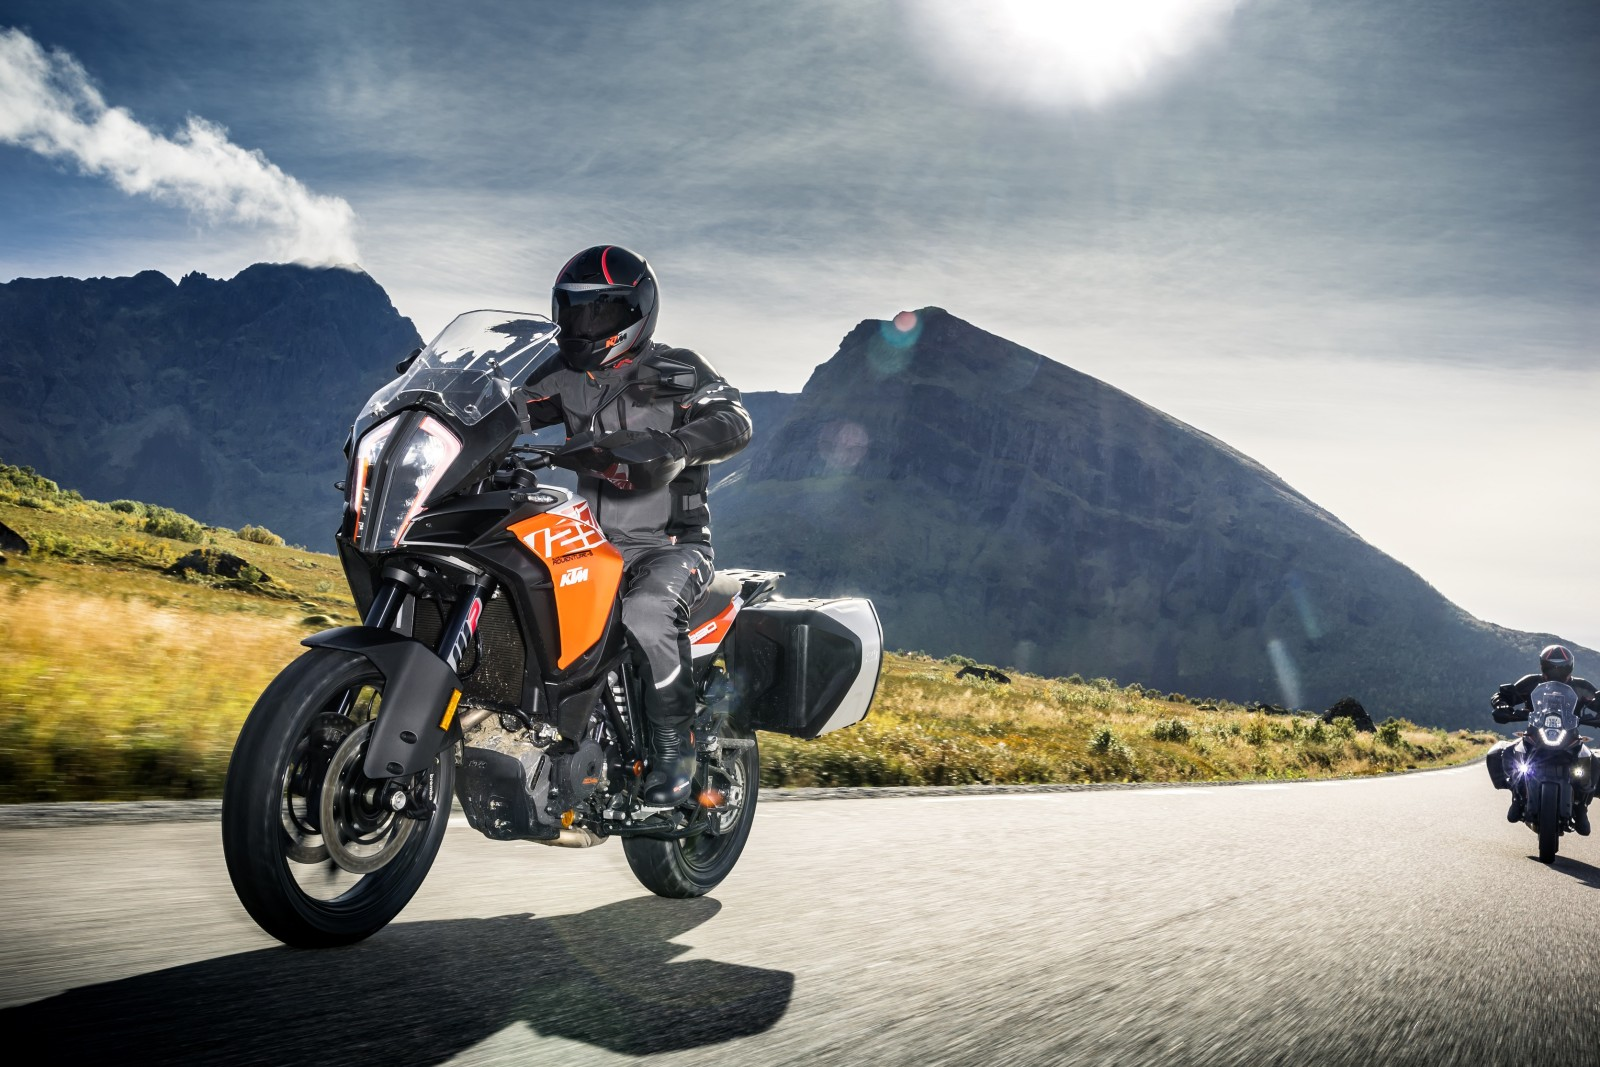
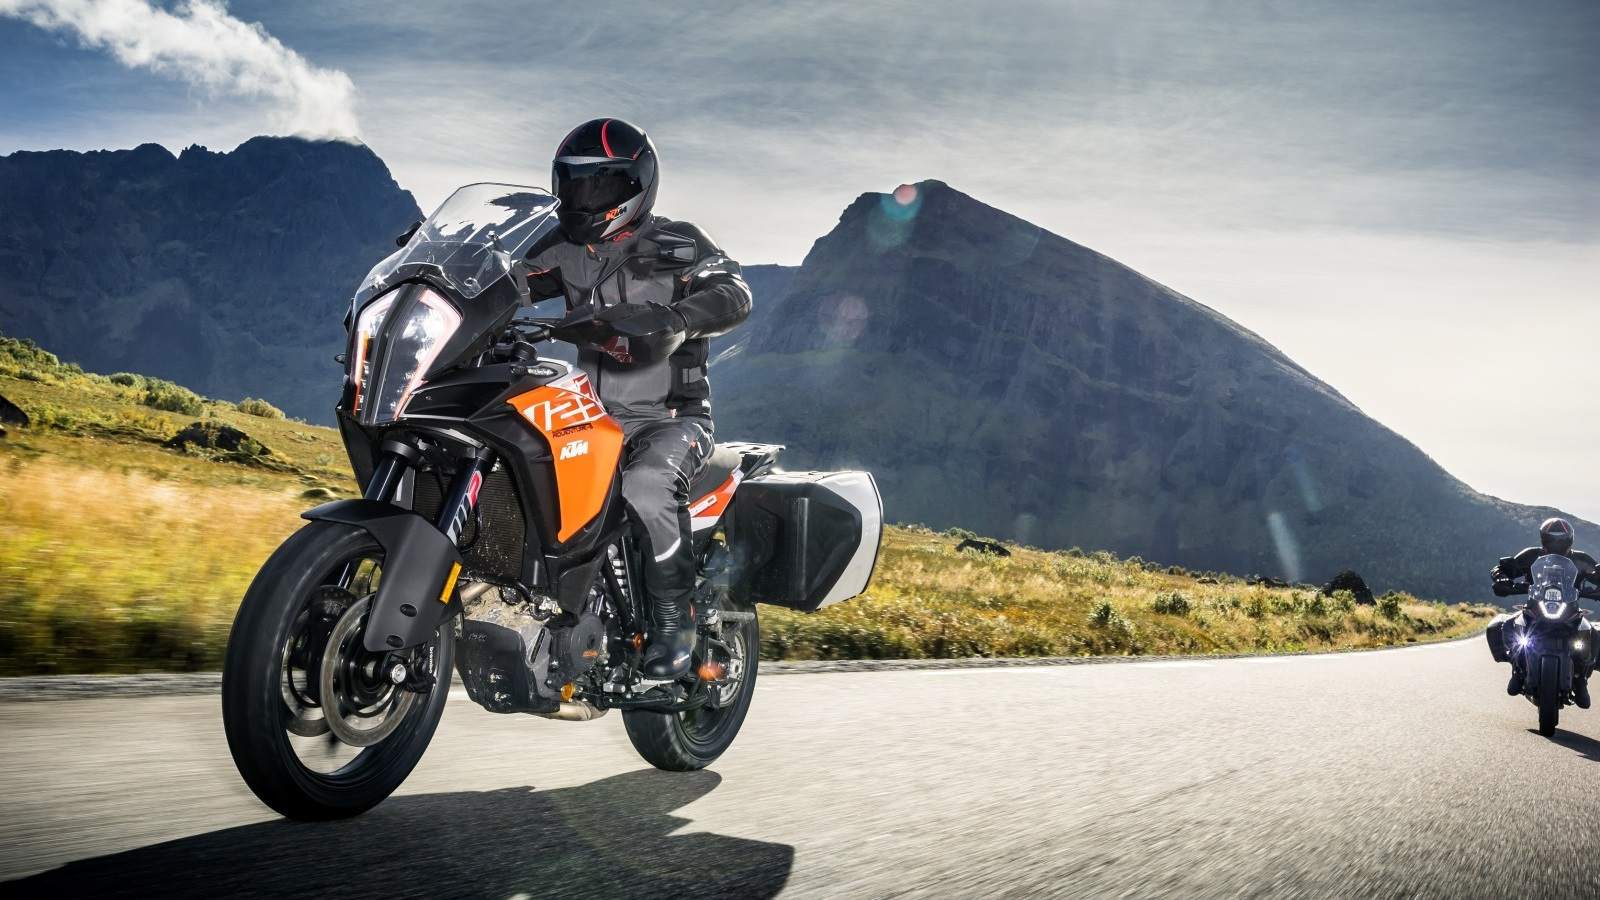
commit

diff --git a/1290adventure.html b/1290adventure.html
@@ -7,14 +7,50 @@
 <link rel="stylesheet" href="https://fonts.googleapis.com/css?family=Roboto">
 <link rel="stylesheet" href="https://fonts.googleapis.com/css?family=Montserrat">
 <link rel="stylesheet" href="https://cdnjs.cloudflare.com/ajax/libs/font-awesome/4.7.0/css/font-awesome.min.css">
+
+<link rel="stylesheet" href="https://maxcdn.bootstrapcdn.com/bootstrap/4.5.0/css/bootstrap.min.css">
+<script src="https://ajax.googleapis.com/ajax/libs/jquery/3.5.1/jquery.min.js"></script>
+<script src="https://cdnjs.cloudflare.com/ajax/libs/popper.js/1.16.0/umd/popper.min.js"></script>
+<script src="https://maxcdn.bootstrapcdn.com/bootstrap/4.5.0/js/bootstrap.min.js"></script>
+
+
 <style>
 .w3-sidebar a {font-family: "Roboto", sans-serif}
 body,h1,h2,h3,h4,h5,h6,.w3-wide {font-family: "Montserrat", sans-serif;}
+
+.carousel-inner img {
+    width: 100%;
+    height: 100%;
+  }
+table {
+  border-collapse: collapse;
+  border-spacing: 0;
+  width: 100%;
+  border: 1px solid #ddd;
+}
+
+th, td {
+  text-align: Left;
+  padding: 16px;
+}
+
+tr:nth-child(even) {
+  background-color: #f2f2f2;
+}
+.fa-check {
+  color: green;
+}
+
+.fa-remove {
+  color: red;
+}
 </style>
+<br>
 <body class="w3-content" style="max-width:1200px">
 
-<!-- Sidebar/menu -->
+			<!-- Sidebar/menu -->
 <nav class="w3-sidebar w3-bar-block w3-white w3-collapse w3-top" style="z-index:3;width:250px" id="mySidebar">
+
   <div class="w3-container w3-display-container w3-padding-16">
     <i onclick="w3_close()" class="fa fa-remove w3-hide-large w3-button w3-display-topright"></i>
     <h3 class="w3-wide"><b>Ride Zone</b></h3>
@@ -37,98 +73,190 @@ body,h1,h2,h3,h4,h5,h6,.w3-wide {font-family: "Montserrat", sans-serif;}
   <a href="#footer"  class="w3-bar-item w3-button w3-padding">Subscribe</a>
 </nav>
 
-<!-- Top menu on small screens -->
+			<!-- Top menu on small screens -->
 <header class="w3-bar w3-top w3-hide-large w3-black w3-xlarge">
-  <div class="w3-bar-item w3-padding-15 w3-wide">Ride<br>Zone</div>
+  <div class="w3-bar-item w3-padding-15 w3-wide"><a href="index.html" style="text-decoration:none; color:white;">Ride <br>Zone</a></div>
   <a href="javascript:void(0)" class="w3-bar-item w3-button w3-padding-24 w3-right" onclick="w3_open()"><i class="fa fa-bars"></i></a>
 </header>
 
-<!-- Overlay effect when opening sidebar on small screens -->
+			<!-- Overlay effect when opening sidebar on small screens -->
 <div class="w3-overlay w3-hide-large" onclick="w3_close()" style="cursor:pointer" title="close side menu" id="myOverlay"></div>
 
-<!-- !PAGE CONTENT! -->
+			<!-- !PAGE CONTENT! -->
 <div class="w3-main" style="margin-left:250px">
 
-  <!-- Push down content on small screens -->
+			<!-- Push down content on small screens -->
   <div class="w3-hide-large" style="margin-top:83px"></div>
   
-  <!-- Top header -->
+			<!-- Top header -->
   <header class="w3-container w3-xlarge">
     <p class="w3-left">ADVENTURE</p>
     <p class="w3-right">
       <i class="fa fa-search"></i>
     </p>
   </header>
+			<!-- Image header -->
+	<div class="w3-display-container w3-container">
+		<img src="images/ktm/1290adventure.8.jpg" alt="tiger900gtpro" style="width:100%">
+		<div class="w3-display-topleft w3-text-white" style="padding:24px 48px">
+			<h1 class="w3-jumbo w3-hide-small">KTM 1290</h1>
+			<h1 class="w3-hide-large w3-hide-medium">KTM 1290 <br> Adventure S</h1>
+			<h1 class="w3-hide-small">Super Adventure S</h1>
+		</div>
+	</div>
+	<br>
+			<!-- CAROUSEL -->
+	<div id="demo" class="carousel slide" data-ride="carousel">
 
-  <!-- Image header -->
-  <div class="w3-display-container w3-container">
-    <img src="images/bmw/s1000xr.jpg" alt="Jeans" style="width:100%">
-    <div class="w3-display-topleft w3-text-white" style="padding:24px 48px">
-      <h1 class="w3-jumbo w3-hide-small">BMW S1000XR</h1>
-      <h1 class="w3-hide-large w3-hide-medium">S1000XR</h1>
-      <h1 class="w3-hide-small">Tour Ready</h1>
-      <p><a href="s1000xr.html" class="w3-button w3-black w3-padding-large w3-large">Check Out</a></p>
-    </div>
-  </div>
+			<!-- Indicators -->
+	<ul class="carousel-indicators">
+		<li data-target="#demo" data-slide-to="0" class="active"></li>
+		<li data-target="#demo" data-slide-to="1"></li>
+		<li data-target="#demo" data-slide-to="2"></li>
+		<li data-target="#demo" data-slide-to="3"></li>
+		<li data-target="#demo" data-slide-to="4"></li>
+		<li data-target="#demo" data-slide-to="5"></li>
+		<li data-target="#demo" data-slide-to="6"></li>
+		<li data-target="#demo" data-slide-to="7"></li>
+	</ul>
+		  
+			<!-- The slideshow -->
+	<div class="carousel-inner">
+		<div class="carousel-item active">
+			<img src="images/ktm/1290adventure.2.jpg" alt="Los Angeles" width="1100" height="500">
+		</div>
+		<div class="carousel-item">
+			<img src="images/ktm/1290adventure.4.jpg" alt="Chicago" width="1100" height="500">
+		</div>
+		<div class="carousel-item">
+			<img src="images/ktm/1290adventure.5.jpg" alt="New York" width="1100" height="500">
+		</div>
+		<div class="carousel-item">
+			<img src="images/ktm/1290adventure.jpg" alt="Chicago" width="1100" height="500">
+		</div>
+		<div class="carousel-item">
+			<img src="images/ktm/1290adventure.8.jpg" alt="Chicago" width="1100" height="500">
+		</div>
+		<div class="carousel-item">
+			<img src="images/ktm/1290adventure.7.jpg" alt="Chicago" width="1100" height="500">
+		</div>
+		<div class="carousel-item">
+			<img src="images/ktm/1290adventure.6.jpg" alt="Chicago" width="1100" height="500">
+		</div>
+		<div class="carousel-item">
+			<img src="images/ktm/1290adventure.3.jpg" alt="Chicago" width="1100" height="500">
+		</div>
+	</div>
+		  
+			<!-- Left and right controls -->
+	<a class="carousel-control-prev" href="#demo" data-slide="prev">
+		<span class="carousel-control-prev-icon"></span>
+	</a>
+	<a class="carousel-control-next" href="#demo" data-slide="next">
+		<span class="carousel-control-next-icon"></span>
+	</a>
+	</div>
 
-  <div class="w3-container w3-text-grey" id="jeans">
-    <p>8 items</p>
-  </div>
+	<table>
+		<tr>
+			<th>MODEL</th>
+			<th>KTM</th>
+			<th>1290 SUPER ADVENTURE S</th>
+		</tr>
+		<tr>
+			<td>ENGINE</td>
+			<td>1301cc</td>
+			<td>Liquid Cooled</td>
+		</tr>
+		<tr>
+			<td>POWER</td>
+			<td>160 PS</td>
+			<td>@ 8750 rpm</td>
+		</tr>
+		<tr>
+			<td>TORQUE</td>
+			<td>140 Nm</td>
+			<td>@ 6750 rpm</td>
+		</tr>
+		<tr>
+			<td>COMPRESSION</td>
+			<td>13.1:1</td>
+			<td></td>
+		</tr>
+		<tr>
+			<td>TRANSMISSION</td>
+			<td>6 Speed</td>
+			<td>Chain Drive</td>
+		</tr>
+		<tr>
+			<td>BORE X STROKE</td>
+			<td>108mm</td>
+			<td>71mm</td>
+		</tr>
+		<tr>
+			<td>TYPE</td>
+			<td>75°V-Twin Cylinder</td>
+			<td>DOHC</td>
+		</tr>
+		<tr>
+			<td>FUEL TANK</td>
+			<td>23L</td>
+			<td>19.5kmpl</td>
+		</tr>
+		<tr>
+			<td>FRONT SUSPENSION</td>
+			<td>WP Semi Active 48mm fork</td>
+			<td>7.9 inches</td>
+		</tr>
+		<tr>
+			<td>REAR SUSPENSION</td>
+			<td>WP Semi Active Monoshock</td>
+			<td>6.69 inches</td>
+		</tr>
+		<tr>
+			<td>FRONT BRAKE</td>
+			<td>320mm disc</td>
+			<td>Four Piston Calipers</td>
+		</tr>
+		<tr>
+			<td>REAR BRAKE</td>
+			<td>267mm disc</td>
+			<td>Twin Piston caliper</td>
+		</tr>
+		<tr>
+			<td>ABS</td>
+			<td>Bosh 9ME Combined ABS</td>
+			<td>Cornering ABS</td>
+		</tr>
+		<tr>
+			<td>TIRE</td>
+			<td>120/70-ZR19</td>
+			<td>170/60-ZR17</td>
+		</tr>
+		<tr>
+			<td>FRAME</td>
+			<td>Tubular Steel Frame</td>
+			<td></td>
+		</tr>
+		<tr>
+			<td>WHEELBASE</td>
+			<td>1560mm</td>
+			<td></td>
+		</tr>
+		<tr>
+			<td>SEAT HEIGHT</td>
+			<td>860mm</td>
+			<td></td>
+		</tr>
+		<tr>
+			<td>KERB WEIGHT</td>
+			<td>215kg</td>
+			<td></td>
+		</tr>
+	</table>
+		
 
-  <!-- Product grid -->
-  <div class="w3-row">
-    <div class="w3-col l3 s6">
-      <div class="w3-container">
-        <a href="s1000xr.html"><img src="images/bmw/thumbnail/S1000XR.2.jpg" style="width:100%"></a>
-        <p>S1000XR<br><b>BMW</b></p>
-      </div>
-      <div class="w3-container">
-        <a href="1290adventure.html"><img src="images/ktm/thumbnail/1290adventure.jpg" style="width:100%"></a>
-        <p>1290 Adventure<br><b>KTM</b></p>
-      </div>
-    </div>
-
-    <div class="w3-col l3 s6">
-      <div class="w3-container">
-		<a href="tiger900gtpro.html"><img src="images/triumph/thumbnail/tiger900gtpro.2.jpg" style="width:100%"></a>
-        <p>Tiger 900 GT Pro<br><b>Triumph</b></p>
-      </div>
-      <div class="w3-container">
-        <img src="images/kawasaki/thumbnail/versys1000.jpg" style="width:100%">
-        <p>Versys 1000<br><b>Kawasaki</b></p>
-      </div>
-    </div>
-
-    <div class="w3-col l3 s6">
-      <div class="w3-container">
-        <img src="images/honda/thumbnail/africatwin.jpg" style="width:100%">
-        <p>Africa Twin<br><b>Honda</b></p>
-      </div>
-      <div class="w3-container">
-        <div class="w3-display-container">
-          <img src="images/yamaha/thumbnail/tracer900gt.5.jpg" style="width:100%">
-          <span class="w3-tag w3-display-topleft">Sale</span>
-          <div class="w3-display-middle w3-display-hover">
-            <button class="w3-button w3-black">Check Out<i class="fa fa-shopping-cart"></i></button>
-          </div>
-        </div>
-        <p>Tracer 900 GT<br><b>Yamaha</b></p>
-      </div>
-    </div>
-
-    <div class="w3-col l3 s6">
-      <div class="w3-container">
-        <img src="images/ducati/thumbnail/multistrada950.jpg" style="width:100%">
-        <p>Multistrada 950<br><b>Ducati</b></p>
-      </div>
-      <div class="w3-container">
-        <img src="images/suzuki/thumbnail/vstrom1000xt.jpg" style="width:100%">
-        <p>V Strom 1000XT<br><b>Suzuki</b></p>
-      </div>
-    </div>
-  </div>
-
-  <!-- Subscribe section -->
+			<!-- Subscribe section -->
   <div class="w3-container w3-black w3-padding-32">
     <h1>Subscribe</h1>
     <p>To get special offers and VIP treatment:</p>
@@ -136,7 +264,7 @@ body,h1,h2,h3,h4,h5,h6,.w3-wide {font-family: "Montserrat", sans-serif;}
     <button type="button" class="w3-button w3-red w3-margin-bottom">Subscribe</button>
   </div>
   
-  <!-- Footer -->
+			<!-- Footer -->
   <footer class="w3-padding-64 w3-light-grey w3-small w3-center" id="footer">
     <div class="w3-row-padding">
       <div class="w3-col s4">
@@ -185,10 +313,10 @@ body,h1,h2,h3,h4,h5,h6,.w3-wide {font-family: "Montserrat", sans-serif;}
 
   <div class="w3-black w3-center w3-padding-24">Powered by <a href=# title="Universal Luna" target="_blank" class="w3-hover-opacity">RideZone</a></div>
 
-  <!-- End page content -->
+			<!-- End page content -->
 </div>
 
-<!-- Newsletter Modal -->
+			<!-- Newsletter Modal -->
 <div id="newsletter" class="w3-modal">
   <div class="w3-modal-content w3-animate-zoom" style="padding:32px">
     <div class="w3-container w3-white w3-center">
@@ -226,6 +354,7 @@ function w3_close() {
     document.getElementById("mySidebar").style.display = "none";
     document.getElementById("myOverlay").style.display = "none";
 }
+
 </script>
 
 </body>
